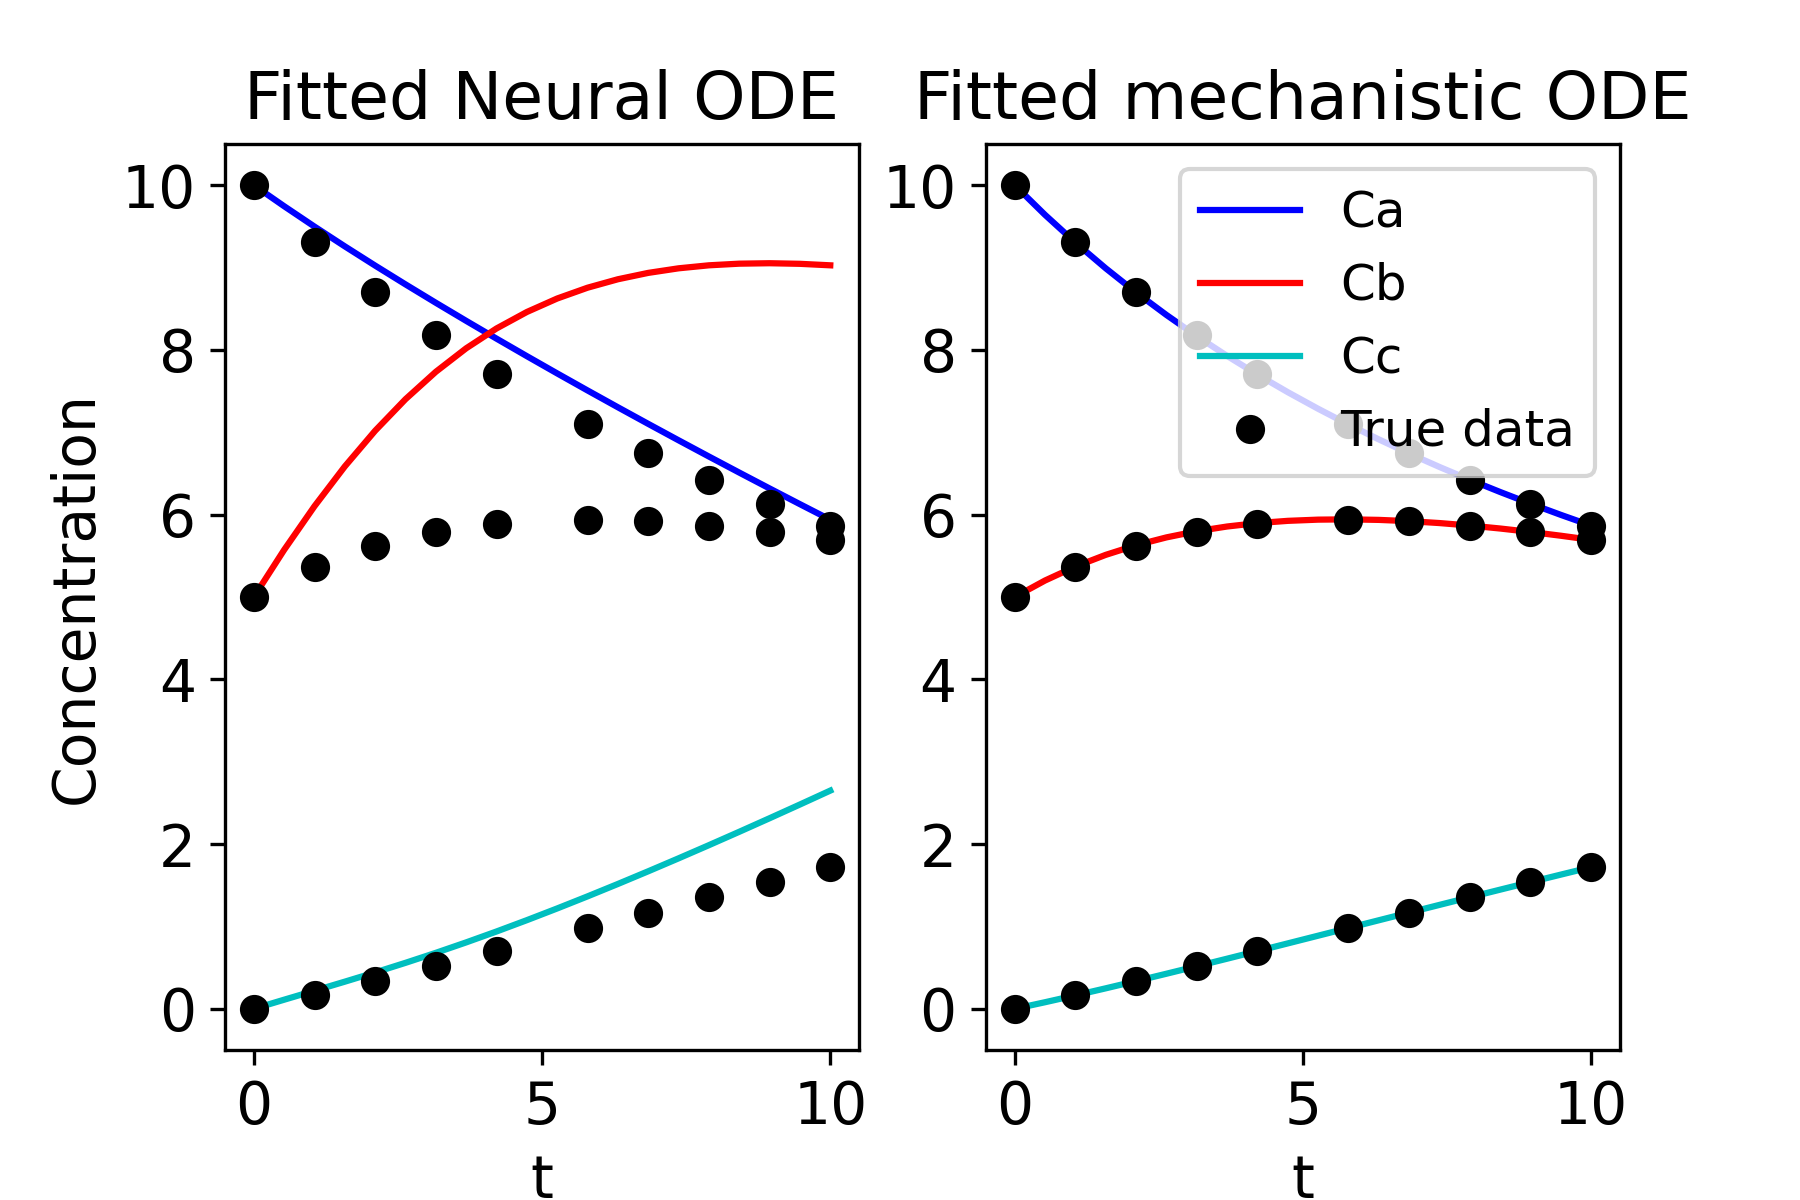
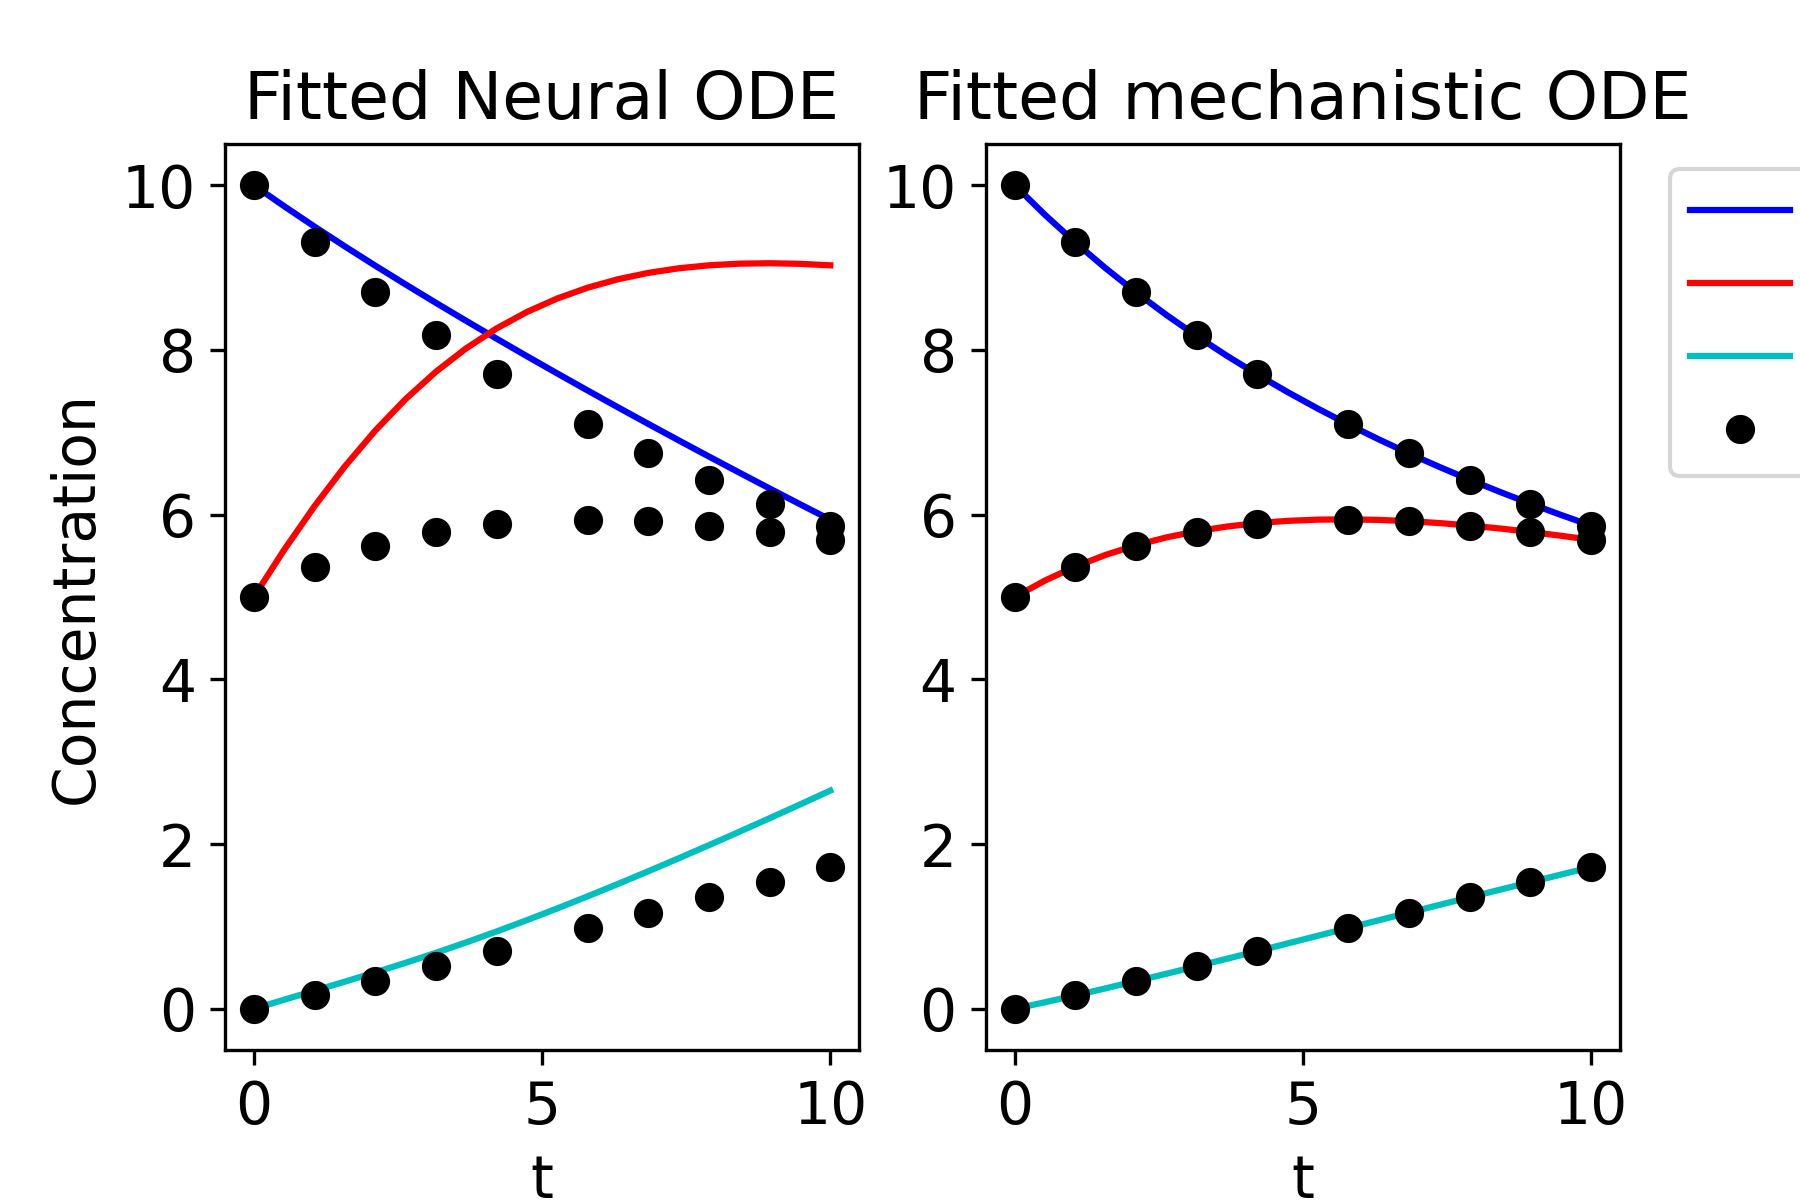
Visual Take 3

diff --git a/KineticRxn/AG_Rxn+Deg.py b/KineticRxn/AG_Rxn+Deg.py
@@ -473,7 +473,7 @@ plt.xlabel('t')
 # plt.ylabel('Concentration')
 plt.plot(t[idx],true_yex[idx,0],'ko',t[idx],true_yex[idx,1],'ko')
 plt.plot(t[idx],true_yex[idx,2],'ko')#,t[idx],true_yex[idx,3],'go')
-plt.legend(['Ca','Cb','Cc','True data'])
+plt.legend(['Ca','Cb','Cc','True response'],bbox_to_anchor=(1.04, 1),)
 plt.savefig('visuals/Extrap',dpi=300)
 plt.show()
 

diff --git a/README.md b/README.md
@@ -10,9 +10,22 @@ Code was tested using the following Python modules:
 
 # The Advantage of Hybridizing First-Principles and Machine Learning
 A simple example of how a Neural ODE can fit time-series data can be found in the [`KineticRxn/AG_Rxn+Deg.py`](./KineticRxn/AG_Rxn+Deg.py.py) file.
-In this example, the Neural ODE readily fits the measured state data, but as shown in the below graphic, when simulation conditions greatly differ from training data, the Neural ODE prediction diverge from the true dyanmics.  In contrast, if the Neural ODE derivative estimates are used to train the parameters of a correctly formulated (i.e., first-principles or mechanistically-inspired) ODE model, this model can accurately predict the dynamics of the underlying system for conditions far beyond the range of the original training data.
+
+In this example, the Neural ODE readily fits the measured state data.  However, when the Neural ODE then simulates the same system for conditions outside the range of training data, as shown in the below graphic, the predictions of the fitted Neural ODE diverge from the true dyanmics.  In contrast, if the Neural ODE derivative estimates are used to train the parameters of a correctly formulated (i.e., first-principles or mechanistically-inspired) ODE model, this model can be more accurate, even when predicting the dynamics of the underlying system for conditions outside the range of the original training data.
 
 ![alt text](https://github.com/afbwilliam/NODE2StageApproach/blob/main/KineticRxn/visuals/Extrap.png)
+
+# Multiple Overlapping Integration Intervals – Effect on Over-fitting and Over-Smoothing Data
+To optimally train a Neural ODE, Neural ODE hyperparameters must be tuned to avoid issues of both overfitting and “over-smoothing”.  A key hyperparameter for this is the length of the interval of integration used during training.  To help visualize how breaking integration into multiple intervals prevents over-smoothing, Neural ODE training on data from the Lotka-Volterra system is illustrated below using two different lengths of integration.  Clearly, simulating the Neural ODE across the longer interval of integration at every iteration of training ultimately converges to a model that “over-smooths” the dynamics.  In contrast, by breaking the Neural ODE predictions to cover shorter, overlapping intervals, the NODE captures the true dynamics and can avoid the local minimum wherein the model over-smooths the system response.
+
+![alt text](https://github.com/afbwilliam/NODE2StageApproach/blob/main/GIFs/LoVoIC.gif) 
+![alt text](https://github.com/afbwilliam/NODE2StageApproach/blob/main/GIFs/LoVoICs.gif)
+
+Nevertheless, intervals of integration should not be so short as to encourage Neural ODE overfitting, especially problematic when data is noisy.  Shown below is the process of fitting a Neural ODE to noisy data for different lengths of integration.  Although the Neural ODE captures the dynamics when trained for both cases, only the Neural ODE trained with longer intervals is able to simulate (as shown with black lines) the long-range dynamics after training.
+
+![alt text](https://github.com/afbwilliam/NODE2StageApproach/blob/main/GIFs/2stepsFHN.gif) ![alt text](https://github.com/afbwilliam/NODE2StageApproach/blob/main/GIFs/8stepsFHN.gif)
+
+Ultimately, a useful heuristic to follow to minimize Neural ODE overfitting is to choose the longest interval of integration during Neural ODE training that does cause the fitted Neural ODE to over-smooth the data.  
 
 # References
 Further reading on the advantages of Neural ODEs when applying the 2-stage approach to ODE parameter estimation can be found in the paper:
